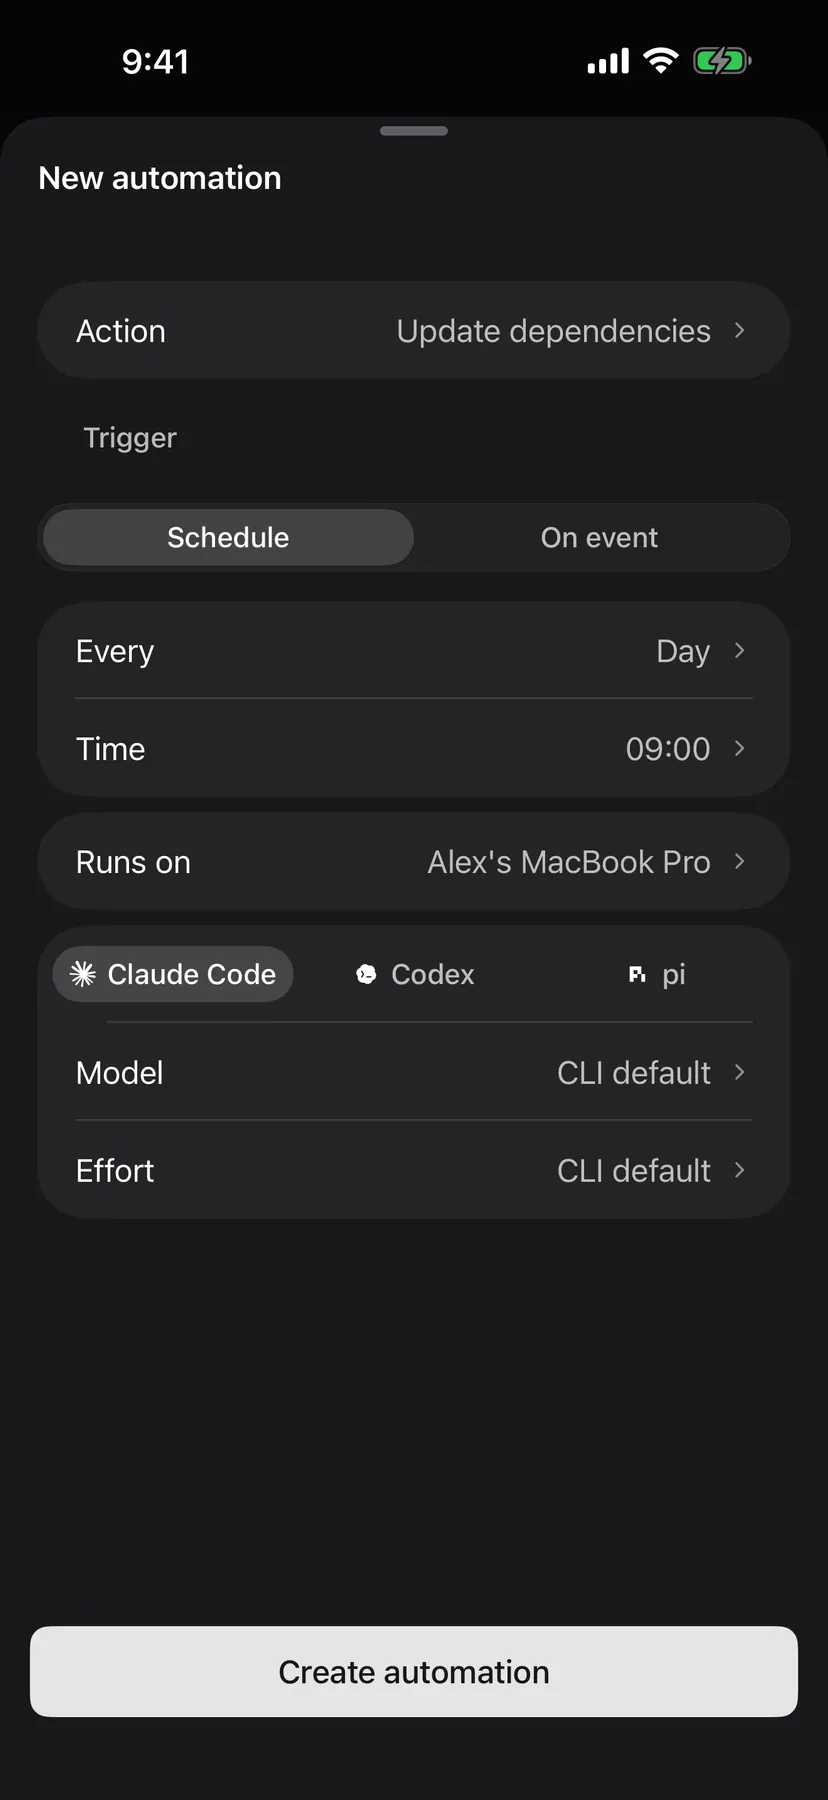
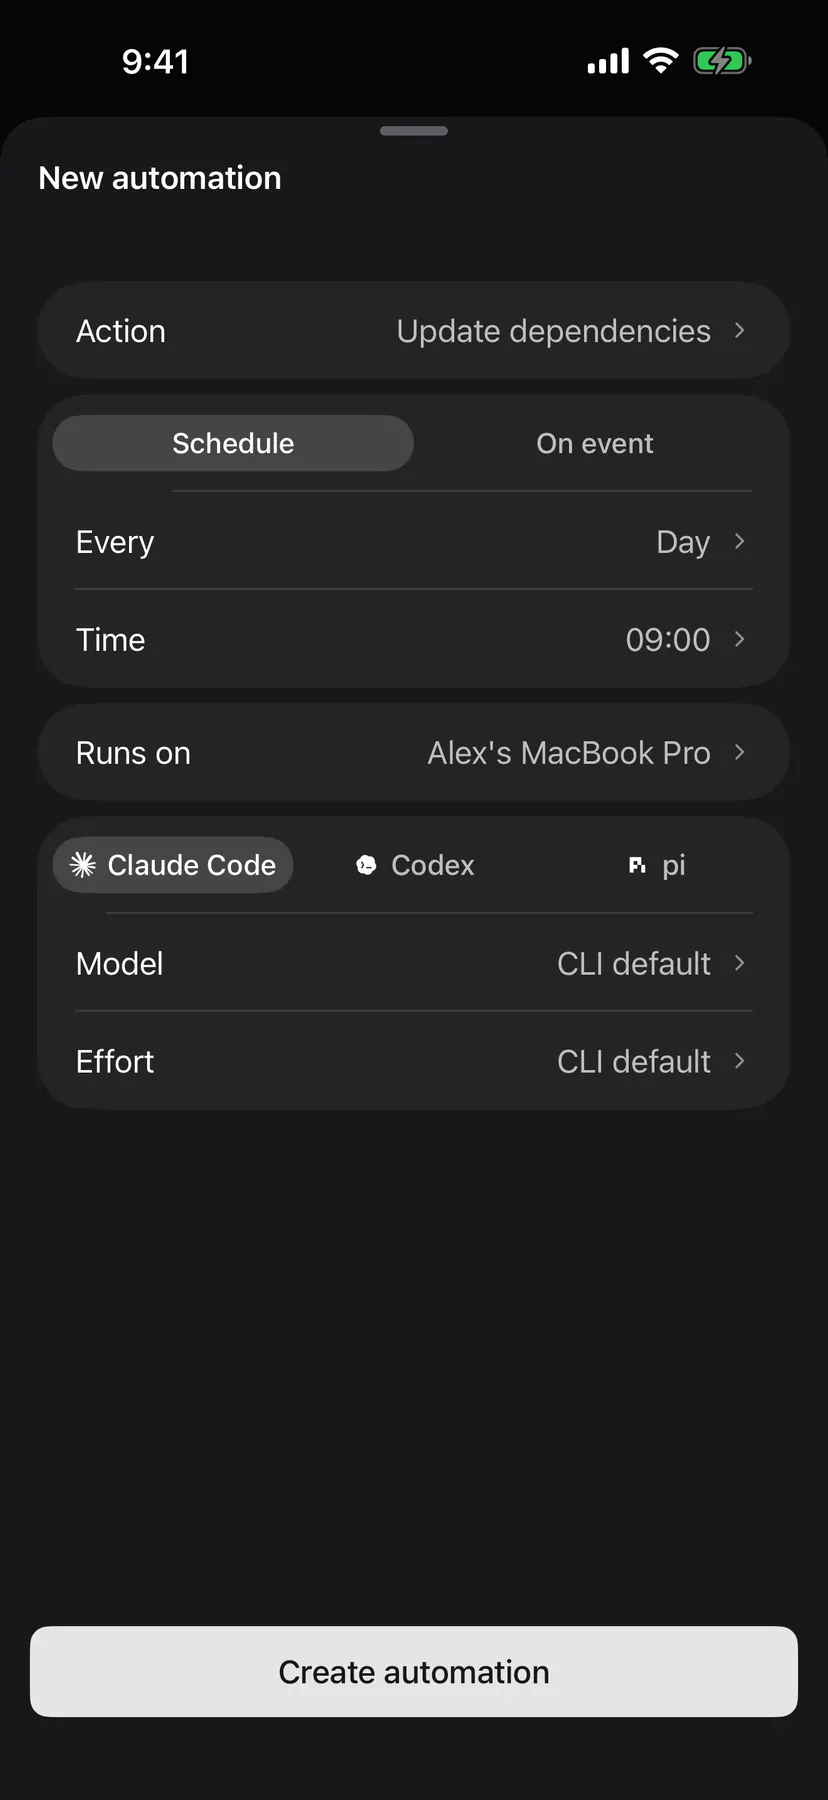
EXP-721: iOS automation trigger tabs are the card's first row
EXP-698 round 4 made the Schedule / On event tabs the first row of the
trigger card (embedded strip, no "Trigger" heading) on web, desktop and
Android; iOS still drew a capsule under a heading. Same form now, and the
automations/ios shot is refreshed.

diff --git a/apps/ios/Exponential/UI/Actions/AutomationTriggerForm.swift b/apps/ios/Exponential/UI/Actions/AutomationTriggerForm.swift
@@ -141,25 +141,21 @@ struct AutomationTriggerForm: View {
 
     @ViewBuilder
     var body: some View {
-        // The capsule rides its own card-less section: sharing the rows'
-        // section painted the card behind it and clipped its bottom edge;
-        // zero insets keep it flush with the grouped cards' margins.
+        // EXP-721 (EXP-698 r4 parity): the Schedule / On event tabs are the
+        // FIRST ROW of the trigger card — the embedded strip the agent card
+        // wears — not a capsule under a "Trigger" heading. Web, desktop and
+        // Android already read this way. No footer note about the machine's
+        // own clock (EXP-615): the "Runs on" row already names the machine the
+        // schedule belongs to.
         Section {
             GlassSegmentedControl(
                 options: ["schedule", "event"],
                 selection: draft.kind,
                 label: { $0 == "schedule" ? "Schedule" : "On event" },
+                style: .embedded,
                 onSelect: { draft.kind = $0 }
             )
-            .listRowBackground(Color.clear)
-            .listRowInsets(EdgeInsets())
-            .listRowSeparator(.hidden)
-        } header: {
-            GlassSectionHeader("Trigger")
-        }
-        // No footer note about the machine's own clock (EXP-615) — the "Runs
-        // on" row already names the machine the schedule belongs to.
-        Section {
+            .listRowInsets(EdgeInsets(top: 8, leading: 8, bottom: 8, trailing: 8))
             if draft.kind == "schedule" {
                 scheduleRows
             } else {
